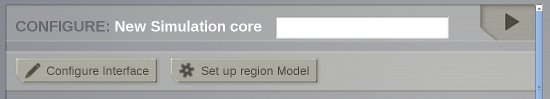
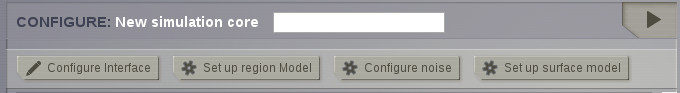
TVB-1572 phase plane docs
git-svn-id: https://repo.thevirtualbrain.org/svn/tvb/trunk/tvb_documentation@6623 1c0e02f0-7929-43c0-8fb3-3293bf43b0d1

diff --git a/manuals/UserGuide/UserGuide-UI_Simulator.rst b/manuals/UserGuide/UserGuide-UI_Simulator.rst
@@ -15,18 +15,24 @@ and visualization capabilities.
 
 
 Configure a Simulation
-.......................
+......................
 
 .. |interrogationicon| image:: icons/online_help_green.png
 
 |
+
+A simulation is configured from the middle column.
 
 On the top of this column there is:
   - a field to enter the new simulation name,
   - the `Launch` button on the top right to start the simulation, and
   - the `Configure Interface` button to select which of the simulation 
     components are visible.
+  - links to pages that allow detailed configuration
 
+    - region model configuration
+    - region noise configuration
+    - surface level configuration (available for surface simulations)
 |
 
     .. image:: screenshots/simulator_configuration_buttons.jpg
@@ -35,8 +41,7 @@ On the top of this column there is:
 
 |
 
-Via this column, you have access to all the simulator components configurable 
-settings:
+In this column you can change all the configurable parameters of a simulation:
 
   - Long Range Connectivity
   - Long Range Coupling Function
@@ -44,11 +49,15 @@ settings:
   - Cortical Surface
   - Stimulus
   - Local Dynamics Model
+
     - State Variable Range
     - State Variables to be recorded
     - Initial Conditions
+
   - Integration Scheme
+
     - Integration Step Size
+
   - Monitors
   - Simulation Length
 
@@ -70,8 +79,46 @@ icon next to each element.
     * this ca also be used in the context of Parameter Space Exploration of |TVB|
 
 
-.. note:: 
-  
+The `Phase plane` page
+~~~~~~~~~~~~~~~~~~~~~~
+
+It is used to explore and define parameter configurations.
+It is accessible from the top menu:
+
+.. figure:: screenshots/simulator_phase_plane_link.jpg
+      :width: 90%
+      :align: center
+
+
+This page allows you to observe how the dynamics of the physical model change as a
+function of its parameters.
+
+On the left column you select the `model` you want to explore and set it's parameters.
+
+The selected model will generally have a n-dimensional phase space.
+The right column shows a 2-dimensional axis cut of this space. Gradients are shown and nullclines if they exist.
+To control this cut use the `Axes` and `State variables` regions in the left column.
+There you can select what state variables should be shown and their ranges.
+Also you can set values for the variables that are not shown.
+
+If you click in the phase plane a state trajectory will be computed.
+The integration method for this trajectory is configured on the left column.
+To make trajectories longer increase the integration step. This will not influence the simulation.
+For stochastic integrators decreasing the dispersion usually makes sense.
+Below the phase graph you will see the signals for all state variables. These signals belong to the latest trajectory.
+
+Finally to save a parameter configuration give it a name and click `Save new parameter configuration`.
+This saved configuration can be used in `Region-based simulations`_
+
+    .. figure:: screenshots/simulator_phase_plane_interactive.jpg
+      :width: 90%
+      :align: center
+
+      The phase plane.
+
+
+.. note::
+
   **TVB performs region-based and surface-based simulations**
 
   You can access specific configuration pages for both types of simulation.
@@ -80,20 +127,25 @@ icon next to each element.
 Region-based simulations
 ~~~~~~~~~~~~~~~~~~~~~~~~
 
-The `Set up region Model` button leads you to an interactive phase-plane display. 
-This tool shows the 2-dimensional planes of the general n-dimensional 
-phase space of the local dynamics model. 
+The `Set up region Model` button leads you to the region model page.
+Here you can associate model parameter configurations to connectivity nodes.
 
-It allows you to observe how the dynamics of the physical model change as a 
-function of its parameters. (See the API documentation for more details about 
-this interactive display)
-
-    .. figure:: screenshots/simulator_phase_plane_interactive.jpg
+.. figure:: screenshots/simulator_region_model.jpg
       :width: 90%
       :align: center
 
-      Preview for region model configuration.
+      Region model configuration.
 
+The `Configure noise` button leads to the region noise page.
+Here you can associate noise dispersions to connectivity nodes.
+Select some nodes using any of the selection components or the 3d view.
+Choose dispersions for all state variables then place those values in the selected nodes.
+
+.. figure:: screenshots/simulator_region_noise.jpg
+      :width: 90%
+      :align: center
+
+      Region noise configuration.
 
 Surface-based simulations
 ~~~~~~~~~~~~~~~~~~~~~~~~~
@@ -175,7 +227,7 @@ Each simulation has a color label that represents its current status:
 .. VIEW COLUMN
 
 Display Simulation Results
-...........................
+..........................
 
 On the right column you will find an area where you can configure displays to exhibit
 your simulation results.
